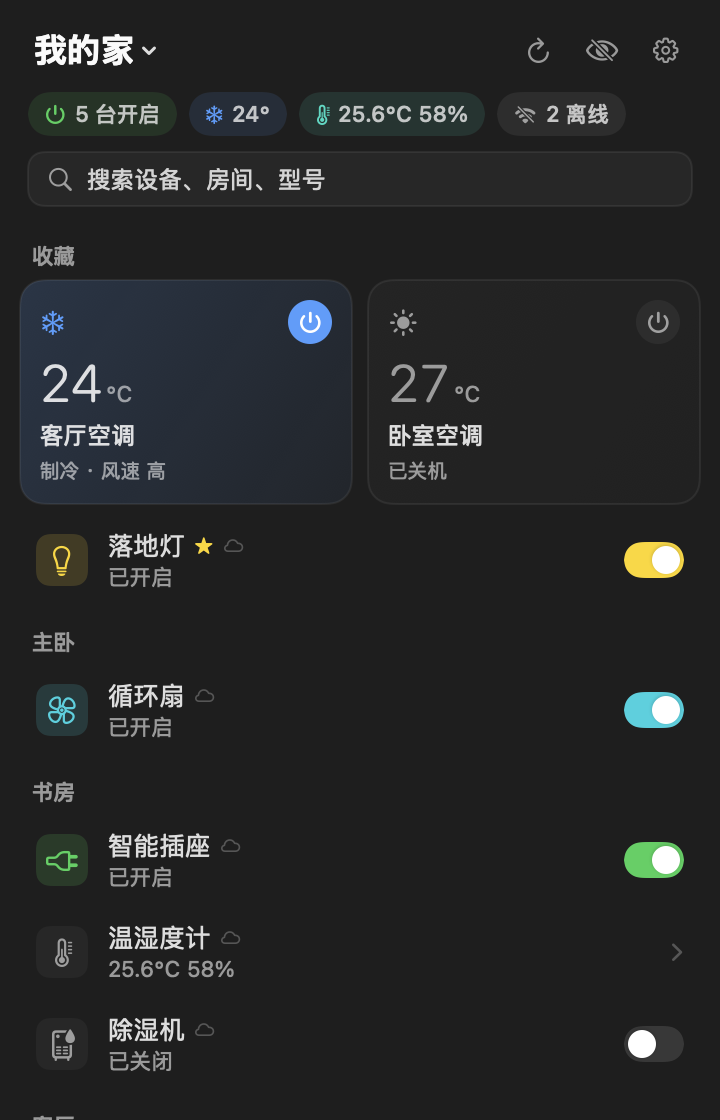
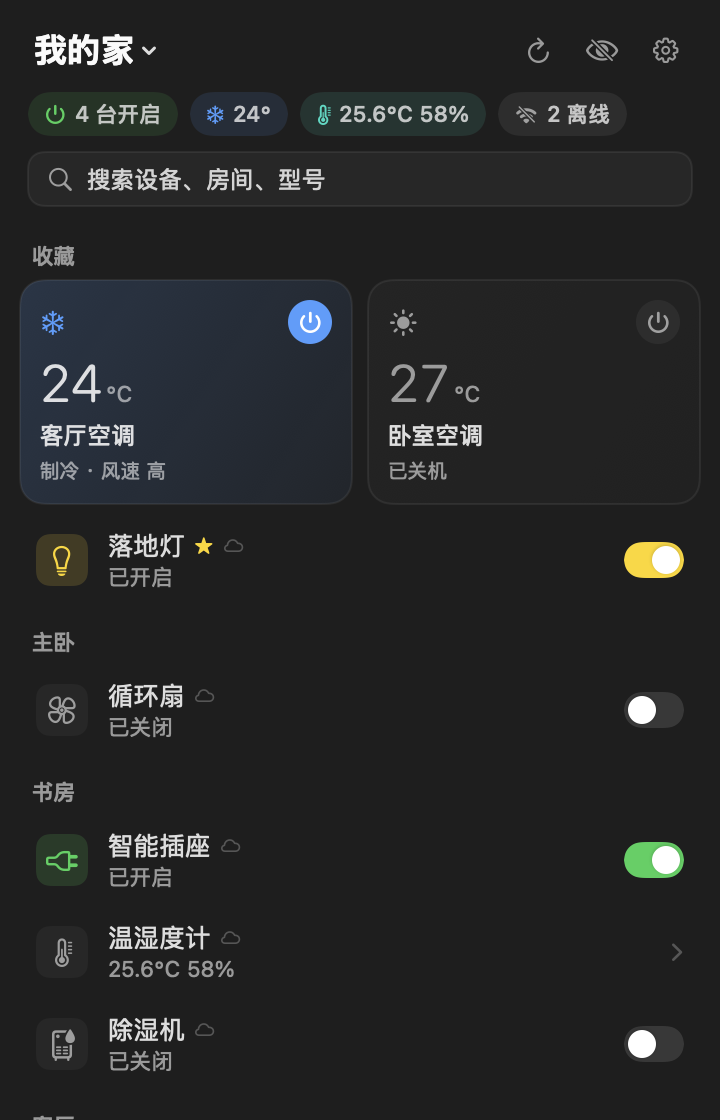
Align the login screen with the rest of the app; fix snapshot fan state
Login:
- Show the app icon artwork (new AppMark view, shared with --icon) instead
  of a rainbow-filled SF Symbol with a glow and an endless bob driven by
  a hand-written easeInOut curve.
- QR card: a plain white card with the tiles' stroke and softer shadow;
  the blue/orange viewfinder corners are gone. The scan line stays, as
  DESIGN.md allows on the login screen. The QR has a VoiceOver label.
- Region is a grouped card row labeled like Settings ("Region").
- Refresh and Quit are secondary text buttons with press and hover
  feedback; Quit uses the power icon, as in Settings.

Snapshot: the light pass turned the demo fan on for its detail shot and
never turned it off, so the dark list showed "5 on" instead of "4 on".

diff --git a/Sources/MijiaBarApp/Views.swift b/Sources/MijiaBarApp/Views.swift
@@ -58,55 +58,69 @@ struct RootView: View {
 
 struct LoginView: View {
     @EnvironmentObject var m: AppModel
-    @Environment(\.accessibilityReduceMotion) private var reduceMotion
     var body: some View {
-        VStack(spacing: 14) {
-            Spacer()
-            Image(systemName: "house.circle.fill").font(.system(size: 44)).foregroundStyle(Theme.sliderGradient)
-                .shadow(color: Theme.cool.opacity(0.5), radius: 14)
-                .phaseAnimator([false, true]) { v, up in v.offset(y: up && !reduceMotion ? -3 : 0) } animation: { _ in .easeInOut(duration: 1.6) }
-                .staggerIn(0)
-            Text(L("登录小米账号", "Sign in to Xiaomi")).font(.system(size: 20, weight: .semibold)).staggerIn(1)
-            Text(L("用米家 App 扫码，无需输入密码", "Scan with the Mi Home app — no password needed")).font(.system(size: 12)).foregroundStyle(.secondary).staggerIn(2)
-            ZStack {
-                RoundedRectangle(cornerRadius: 20, style: .continuous).fill(Color.white).frame(width: 224, height: 224)
-                if let img = m.qrImage {
-                    Image(nsImage: img).resizable().interpolation(.none).frame(width: 200, height: 200)
-                        .overlay(ScanLine())
-                        .transition(.pop())
-                } else if m.loggingIn {
-                    ProgressView().controlSize(.large).colorScheme(.light).transition(.opacity)
-                } else {
-                    Button(L("获取二维码", "Get QR code")) { m.startLogin() }.colorScheme(.light).transition(.opacity)
-                }
-            }
-            .overlay {
-                if m.qrImage != nil {
-                    ViewfinderCorners(length: 16).stroke(Theme.sliderGradient, style: StrokeStyle(lineWidth: 3, lineCap: .round, lineJoin: .round))
-                        .frame(width: 208, height: 208)
-                        .transition(.pop(1.05))
-                }
-            }
-            .shadow(color: .black.opacity(0.2), radius: 16, y: 6)
-            .animation(Motion.enter, value: m.qrImage)
-            .animation(Motion.enter, value: m.loggingIn)
-            .staggerIn(3)
-            Text(m.loginStatus).font(.system(size: 12)).foregroundStyle(.secondary).multilineTextAlignment(.center).frame(height: 32)
+        VStack(spacing: 0) {
+            Spacer(minLength: 8)
+            AppMark(size: 56).shadow(color: .black.opacity(0.15), radius: 6, y: 3).accessibilityHidden(true).staggerIn(0)
+            Text(L("登录小米账号", "Sign in to Xiaomi")).font(.system(size: 20, weight: .semibold)).padding(.top, 14).staggerIn(1)
+            Text(L("用米家 App 扫码，无需输入密码", "Scan with the Mi Home app — no password needed")).font(.system(size: 12)).foregroundStyle(.secondary)
+                .padding(.top, 4).staggerIn(2)
+            qrCard.padding(.top, 18).staggerIn(3)
+            Text(m.loginStatus).font(.system(size: 12)).foregroundStyle(.secondary).multilineTextAlignment(.center)
+                .frame(height: 32).padding(.top, 10)
                 .contentTransition(.opacity).animation(Motion.snappy, value: m.loginStatus)
+            Spacer(minLength: 8)
+            // 与设置页同样的分组卡片
             HStack {
-                Text(L("地区", "Region")).font(.system(size: 12)).foregroundStyle(.secondary)
+                Text(L("服务器地区", "Region"))
+                Spacer()
                 Picker("", selection: Binding(get: { m.prefs.region }, set: { m.setRegion($0) })) {
                     ForEach(xiaomiRegions, id: \.id) { Text($0.name).tag($0.id) }
-                }.labelsHidden().frame(width: 140)
+                }.labelsHidden().fixedSize()
             }
-            HStack(spacing: 12) {
-                Button { m.startLogin() } label: { Label(L("刷新二维码", "Refresh"), systemImage: "arrow.clockwise") }
-                Button { NSApp.terminate(nil) } label: { Label(L("退出", "Quit"), systemImage: "xmark.circle") }
-            }.buttonStyle(.borderless).font(.system(size: 12))
-            Spacer()
+            .font(.system(size: 12))
+            .padding(.horizontal, 12).padding(.vertical, 8)
+            .background(RoundedRectangle(cornerRadius: 14, style: .continuous).fill(Theme.card))
+            HStack {
+                footerButton(L("刷新二维码", "Refresh"), icon: "arrow.clockwise") { m.startLogin() }
+                Spacer()
+                footerButton(L("退出", "Quit"), icon: "power") { m.quitApp() }.help("⌘Q")
+            }
+            .padding(.top, 10).padding(.horizontal, 4)
         }
-        .padding(20)
+        .padding(.horizontal, 20).padding(.vertical, 16)
         .onAppear { if !m.mock, m.qrImage == nil, !m.loggingIn { m.startLogin() } }
+    }
+
+    /// 二维码必须白底黑码；卡片描边和投影与磁贴一致
+    var qrCard: some View {
+        let shape = RoundedRectangle(cornerRadius: 20, style: .continuous)
+        return ZStack {
+            shape.fill(Color.white)
+            if let img = m.qrImage {
+                Image(nsImage: img).resizable().interpolation(.none).frame(width: 196, height: 196)
+                    .overlay(ScanLine())
+                    .accessibilityLabel(L("登录二维码", "Sign-in QR code"))
+                    .transition(.pop())
+            } else if m.loggingIn {
+                ProgressView().controlSize(.large).colorScheme(.light).transition(.opacity)
+            } else {
+                Button(L("获取二维码", "Get QR code")) { m.startLogin() }.colorScheme(.light).transition(.opacity)
+            }
+        }
+        .frame(width: 220, height: 220)
+        .overlay(shape.stroke(Theme.stroke))
+        .shadow(color: .black.opacity(0.12), radius: 12, y: 4)
+        .animation(Motion.enter, value: m.qrImage)
+        .animation(Motion.enter, value: m.loggingIn)
+    }
+
+    func footerButton(_ title: String, icon: String, action: @escaping () -> Void) -> some View {
+        Button(action: action) {
+            Label(title, systemImage: icon).font(.system(size: 12)).foregroundStyle(.secondary)
+                .padding(.horizontal, 8).padding(.vertical, 5).contentShape(Rectangle())
+        }
+        .buttonStyle(.pressable).hoverHighlight()
     }
 }
 
@@ -127,21 +141,6 @@ struct ScanLine: View {
             }
         }
         .clipped().allowsHitTesting(false)
-    }
-}
-
-/// 取景框四角
-struct ViewfinderCorners: Shape {
-    var length: CGFloat = 24
-    func path(in r: CGRect) -> Path {
-        var p = Path()
-        for (c, dx, dy) in [(CGPoint(x: r.minX, y: r.minY), 1.0, 1.0), (CGPoint(x: r.maxX, y: r.minY), -1.0, 1.0),
-                            (CGPoint(x: r.minX, y: r.maxY), 1.0, -1.0), (CGPoint(x: r.maxX, y: r.maxY), -1.0, -1.0)] {
-            p.move(to: CGPoint(x: c.x, y: c.y + dy * length))
-            p.addLine(to: c)
-            p.addLine(to: CGPoint(x: c.x + dx * length, y: c.y))
-        }
-        return p
     }
 }
 

diff --git a/Sources/MijiaBarApp/Snapshot.swift b/Sources/MijiaBarApp/Snapshot.swift
@@ -94,6 +94,22 @@ struct ArtGallery: View {
     }
 }
 
+/// 应用图标的图形（`--icon` 生成 AppIcon，登录页也用它），按 size 等比缩放
+struct AppMark: View {
+    let size: CGFloat
+    var body: some View {
+        let u = size / 1024
+        let shape = RoundedRectangle(cornerRadius: 230 * u, style: .continuous)
+        ZStack {
+            shape.fill(LinearGradient(colors: [Color(red: 0.16, green: 0.42, blue: 1), Color(red: 1, green: 0.52, blue: 0.2)], startPoint: .topLeading, endPoint: .bottomTrailing))
+            shape.fill(Color.black.opacity(0.12))
+            Image(systemName: "house.fill").font(.system(size: 520 * u, weight: .semibold)).foregroundStyle(.white)
+            Image(systemName: "snowflake").font(.system(size: 210 * u, weight: .bold)).foregroundStyle(Color(red: 0.2, green: 0.45, blue: 1)).offset(y: 70 * u)
+        }
+        .frame(width: size, height: size)
+    }
+}
+
 @MainActor
 enum Snapshot {
     static var appearance = NSAppearance(named: .darkAqua)
@@ -166,6 +182,7 @@ enum Snapshot {
             m.page = .detail("d3"); render(root, f("light"))
             m.page = .detail("d5"); render(root, f("plug"))
             m.page = .detail("d4"); m.states["d4"]?.values["2.1"] = .bool(true); render(root, f("fan"))
+            m.states["d4"]?.values["2.1"] = .bool(false)   // 还原，否则深色那一轮的列表会多算一台开启
             m.page = .detail("d10"); render(root, f("camera"))
             m.atHome = false; render(root, f("camera-away")); m.atHome = nil
             LiveControls.snapshotWatching = true
@@ -260,13 +277,7 @@ enum Snapshot {
     }
 
     static func icon(to path: String) {
-        let v = ZStack {
-            RoundedRectangle(cornerRadius: 230, style: .continuous)
-                .fill(LinearGradient(colors: [Color(red: 0.16, green: 0.42, blue: 1), Color(red: 1, green: 0.52, blue: 0.2)], startPoint: .topLeading, endPoint: .bottomTrailing))
-            RoundedRectangle(cornerRadius: 230, style: .continuous).fill(Color.black.opacity(0.12)).padding(0)
-            Image(systemName: "house.fill").font(.system(size: 520, weight: .semibold)).foregroundStyle(.white)
-            Image(systemName: "snowflake").font(.system(size: 210, weight: .bold)).foregroundStyle(Color(red: 0.2, green: 0.45, blue: 1)).offset(y: 70)
-        }.frame(width: 1024, height: 1024).padding(0)
+        let v = AppMark(size: 1024)
         let r = ImageRenderer(content: v.frame(width: 1024, height: 1024)); r.scale = 1
         if let img = r.nsImage, let tiff = img.tiffRepresentation, let rep = NSBitmapImageRep(data: tiff) {
             try? rep.representation(using: .png, properties: [:])?.write(to: URL(fileURLWithPath: path))

diff --git a/Sources/MijiaCore/Translations.swift b/Sources/MijiaCore/Translations.swift
@@ -284,6 +284,7 @@ public let uiTable: [String: [String]] = [
     "Switch": ["Schalter", "Interrupteur", "Interruptor", "Interruttore", "Выключатель", "スイッチ"],
     "Power on/off": ["Ein/Aus", "Marche/arrêt", "Encendido/apagado", "Accensione/spegnimento", "Питание", "電源"],
     "Live view: home network only": ["Livebild nur im Heimnetz", "Direct uniquement sur le réseau domestique", "Directo solo en la red de casa", "Live solo sulla rete di casa", "Трансляция только в домашней сети", "ライブ映像は自宅のネットワークのみ"],
+    "Sign-in QR code": ["Anmelde-QR-Code", "QR code de connexion", "Código QR de inicio de sesión", "Codice QR di accesso", "QR-код для входа", "サインイン用 QR コード"],
 ]
 
 /// 设备状态取值（键为小写英文）
@@ -780,4 +781,5 @@ public let hantTable: [String: String] = [
     "不在家庭网络，无法看直播（直播只能在同一局域网内连接摄像头）": "不在家庭網路，無法看直播（直播只能在同一個區域網路內連線攝影機）",
     "电源": "電源",
     "直播仅限家庭网络": "直播僅限家庭網路",
+    "登录二维码": "登入 QR 碼",
 ]
